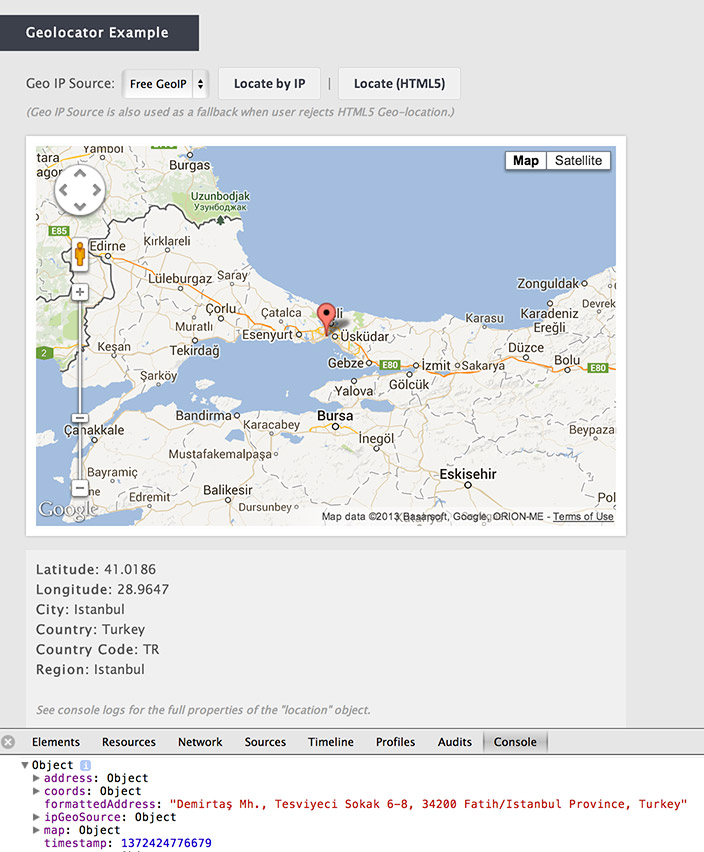
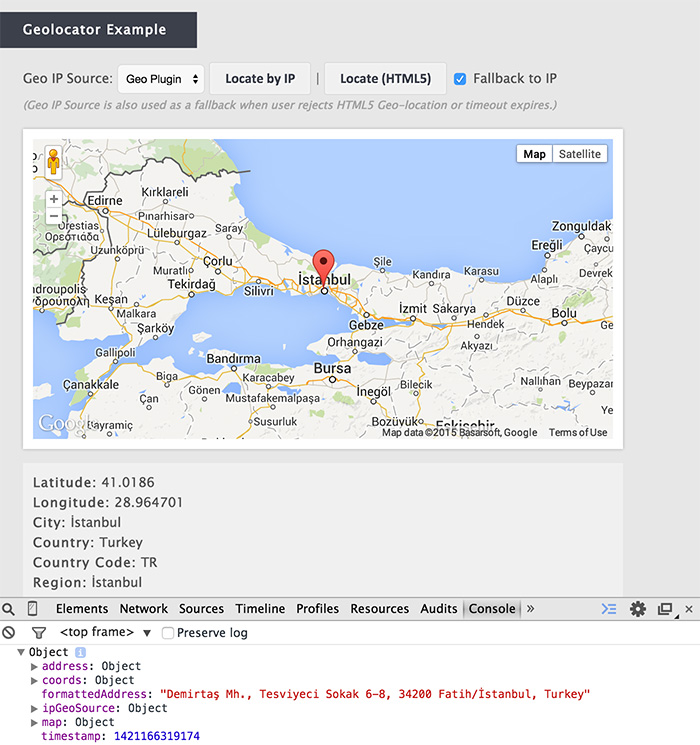
update example

diff --git a/example/css/style.css b/example/css/style.css
@@ -41,7 +41,7 @@ div#map-canvas {
     display: block;
     position: relative;
     width: 580px;
-    height: 380px;
+    height: 300px;
     border: 10px solid #fff;
     -moz-box-shadow: 0px 0px 4px #ACACAC;
     -webkit-box-shadow: 0px 0px 4px #ACACAC;
@@ -86,7 +86,7 @@ button:hover {
     -webkit-box-shadow: inset 0 0 1px 1px #fff;
     box-shadow: inset 0 0 1px 1px #fff;
     color: #222;
-    cursor: pointer; 
+    cursor: pointer;
 }
 button:active {
     background: #fff;
